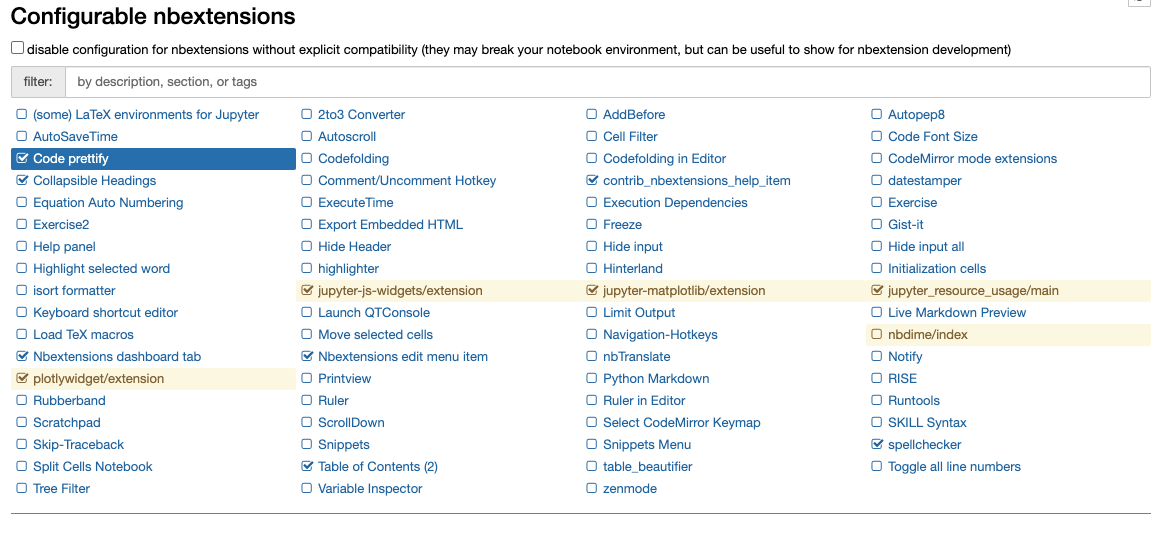
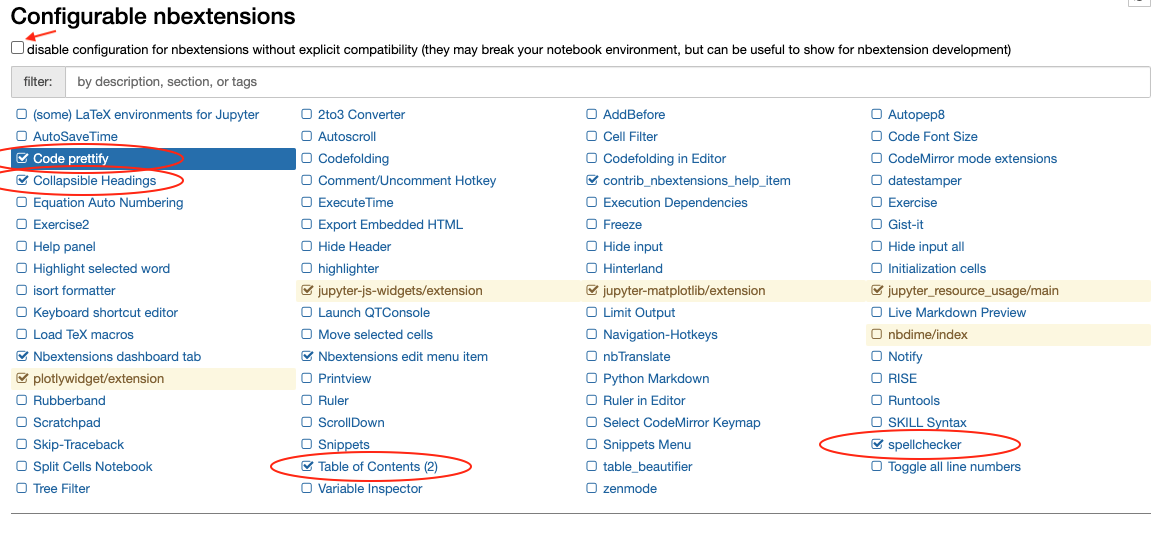
improve image for nbextension check list

diff --git a/WINDOWS.md b/WINDOWS.md
@@ -1126,7 +1126,7 @@ Perform a sanity check for `jupyter notebooks nbextensions`. Click on `Nbextensi
 
 ![jupyter_nbextensions.png](images/jupyter_nbextensions.png)
 
-Untick _"disable configuration for nbextensions without explicit compatibility"_ then check that the `nbextensions` are enabled:
+Untick _"disable configuration for nbextensions without explicit compatibility"_ then check that _at least_ all `nbextensions` circled in red are enabled:
 
 ![nbextensions.png](images/nbextensions.png)
 

diff --git a/LINUX.md b/LINUX.md
@@ -640,7 +640,7 @@ Perform a sanity check for `jupyter notebooks nbextensions`. Click on `Nbextensi
 
 ![jupyter_nbextensions.png](images/jupyter_nbextensions.png)
 
-Untick _"disable configuration for nbextensions without explicit compatibility"_ then check that the `nbextensions` are enabled:
+Untick _"disable configuration for nbextensions without explicit compatibility"_ then check that _at least_ all `nbextensions` circled in red are enabled:
 
 ![nbextensions.png](images/nbextensions.png)
 

diff --git a/macOS.md b/macOS.md
@@ -747,7 +747,7 @@ Perform a sanity check for `jupyter notebooks nbextensions`. Click on `Nbextensi
 
 ![jupyter_nbextensions.png](images/jupyter_nbextensions.png)
 
-Untick _"disable configuration for nbextensions without explicit compatibility"_ then check that the `nbextensions` are enabled:
+Untick _"disable configuration for nbextensions without explicit compatibility"_ then check that _at least_ all `nbextensions` circled in red are enabled:
 
 ![nbextensions.png](images/nbextensions.png)
 

diff --git a/_partials/nbextensions.md b/_partials/nbextensions.md
@@ -63,7 +63,7 @@ Perform a sanity check for `jupyter notebooks nbextensions`. Click on `Nbextensi
 
 ![jupyter_nbextensions.png](images/jupyter_nbextensions.png)
 
-Untick _"disable configuration for nbextensions without explicit compatibility"_ then check that the `nbextensions` are enabled:
+Untick _"disable configuration for nbextensions without explicit compatibility"_ then check that _at least_ all `nbextensions` circled in red are enabled:
 
 ![nbextensions.png](images/nbextensions.png)
 
